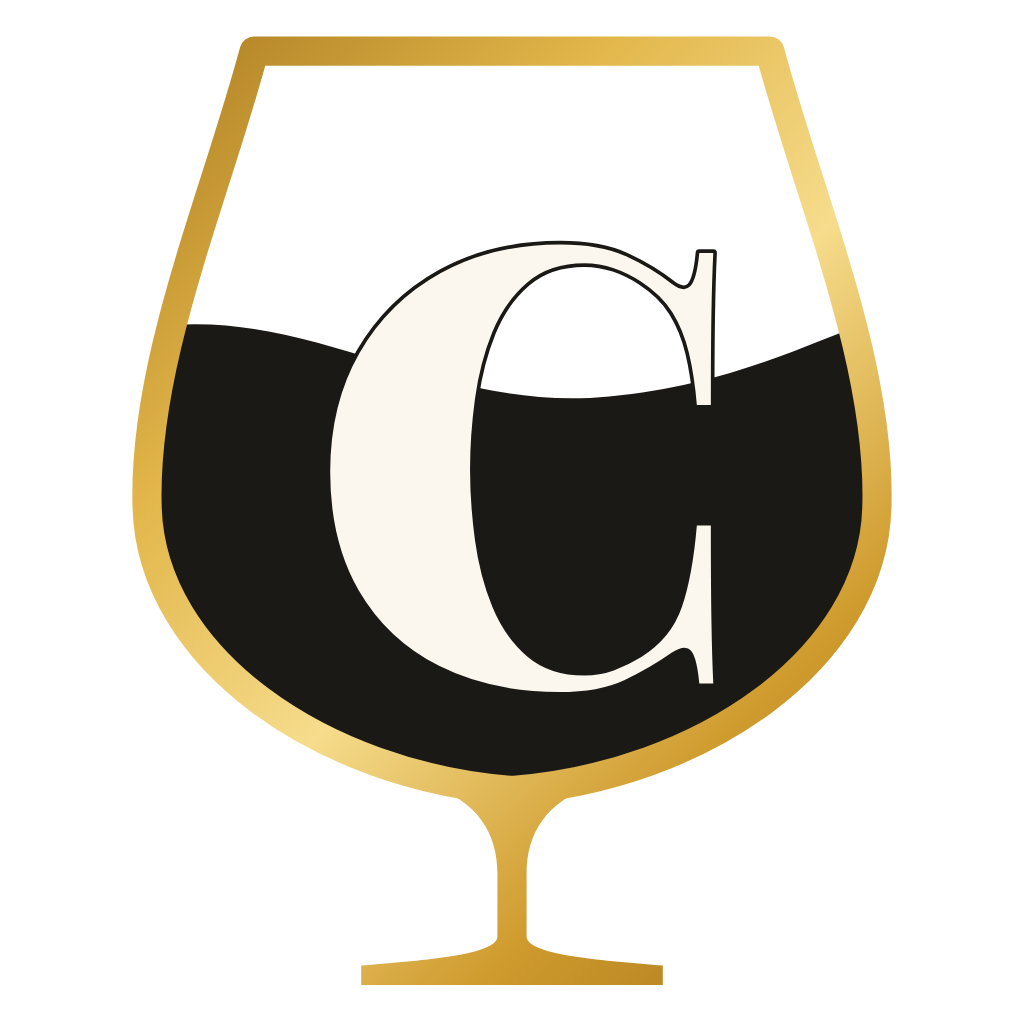
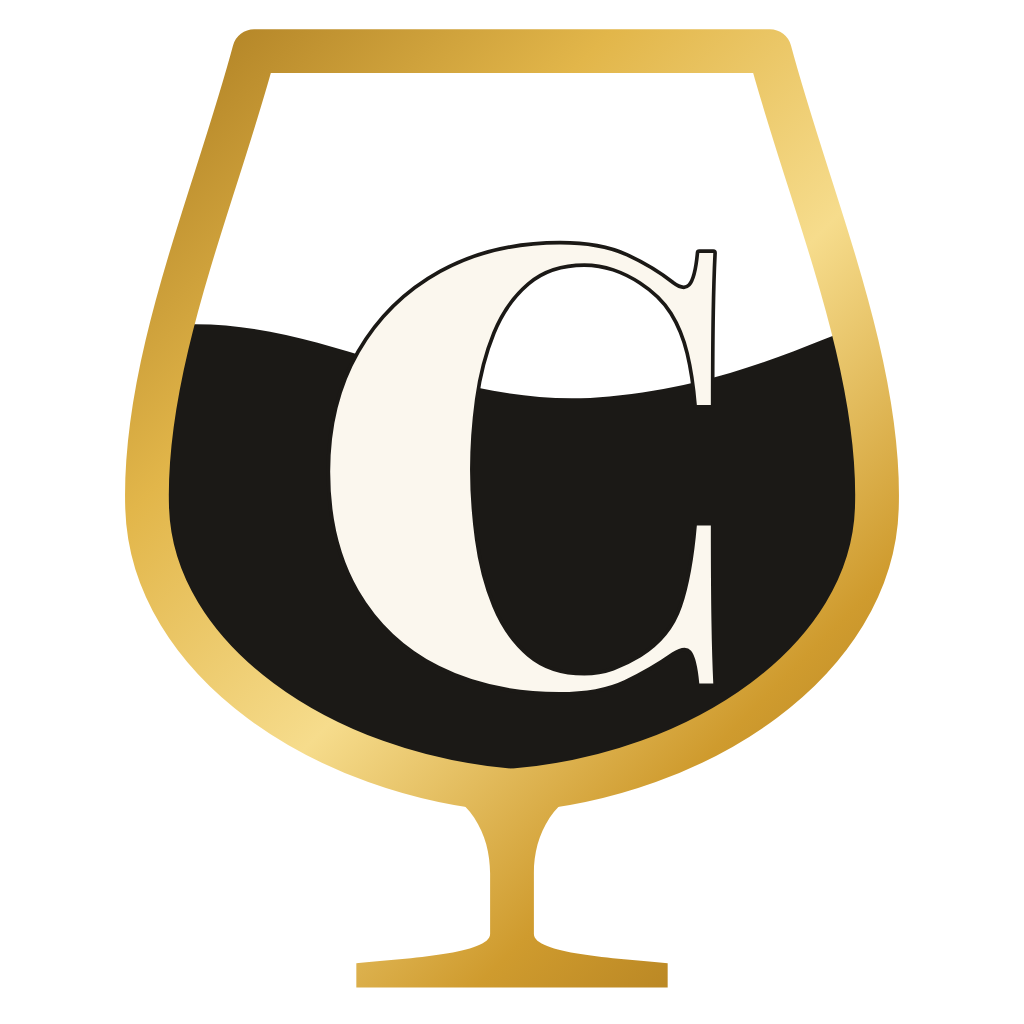
Thicker glass on the app mark; handover readiness: uncounted drinks say so
The standalone glass (the app icon, the favicon and every mark in the app)
has a heavier bowl outline and stem, so it holds at icon sizes; the 1024 PNGs
the home-screen icons are cut from are rendered again from the SVG.

A stock-kept item with nothing ever counted or received now carries its own
reason, not_counted: the Floor and Counter tiles say Not counted rather than
Finished, the Stock page reads Not counted, not on sale, and Health lists them
as a thing to look at. The first-night E2E puts stock on the shelf (trial
stock) before the first round, as the real handover must; all three E2E runs
(first night, round trip, handoff) pass.

Claude-Session: https://claude.ai/code/session_018aG18aFk9ruLPC4UKvSbcw

diff --git a/modules/health/service.ts b/modules/health/service.ts
@@ -176,7 +176,7 @@ function stock(): HealthCheck[] {
   return [
     { id: 'below-zero', label: 'Stock below zero', status: below > 0 ? 'fail' : 'ok', value: String(below), detail: below > 0 ? 'Brought to zero in the background within a minute, then flagged Count needed.' : 'No balance anywhere reads below zero.', href: '/console/inventory/stock' },
     { id: 'recount', label: 'Count needed', status: recount.length > 0 ? 'warn' : 'ok', value: String(recount.length), detail: recount.length > 0 ? 'Sold beyond the record since their last count: count them.' : 'Every counted item matches what was sold.', href: '/console/inventory/stock' },
-    { id: 'uncounted', label: 'Not counted yet', status: uncounted.length > 0 ? 'info' : 'ok', value: `${uncounted.length} of ${stockVariants.length}`, detail: uncounted.length > 0 ? 'On sale, and not stopped when they run out until a first count or delivery.' : 'Every stock-kept item has been counted or received.', href: '/console/inventory/counts/new' },
+    { id: 'uncounted', label: 'Not counted yet', status: uncounted.length > 0 ? 'warn' : 'ok', value: `${uncounted.length} of ${stockVariants.length}`, detail: uncounted.length > 0 ? 'Not on sale: none is on the shelf until a count or a delivery records it. Count them, or set trial stock.' : 'Every stock-kept item has been counted or received.', href: '/console/inventory/counts/new' },
     { id: 'no-cost', label: 'Unit cost not set', status: noCost.length > 0 ? 'warn' : 'ok', value: `${noCost.length} of ${stockVariants.length}`, detail: noCost.length > 0 ? 'Profit and stock value leave these out until a delivery or the product form sets a cost.' : 'Every stock-kept item has a cost.', href: '/console/catalogue/products' },
     { id: 'unpriced', label: 'Not priced', status: unpriced.length > 0 ? 'fail' : 'ok', value: String(unpriced.length), detail: unpriced.length > 0 ? `${unpriced.slice(0, 3).map((v) => v.name).join(', ')}${unpriced.length > 3 ? ' and more' : ''} cannot be sold.` : 'Everything on the menu has a price.', href: '/console/pricing/lists' },
     { id: 'photos', label: 'Without a photo', status: noPhoto.length > 0 ? 'info' : 'ok', value: String(noPhoto.length), detail: noPhoto.length > 0 ? 'They show their initial on the floor.' : 'Every product has a photo.', href: '/console/catalogue/products' },

diff --git a/modules/availability/service.ts b/modules/availability/service.ts
@@ -40,6 +40,7 @@ export function evaluate(variantId: string): AvailabilityResult & { threshold: n
   let threshold = outletDefault;
   let tracked = category.trackStock;
   let hasActiveHold = held.has(variantId);
+  let uncounted = false;
 
   if (recipe) {
     for (const c of recipe.components) if (held.has(c.componentVariantId)) hasActiveHold = true;
@@ -52,7 +53,11 @@ export function evaluate(variantId: string): AvailabilityResult & { threshold: n
         // A part kept in stock stops the drink when it runs out, and so does one never counted or
         // received: stock that was never recorded is not there to pour. Parts not kept in stock do not.
         if (!isKept(c.componentVariantId)) return UNTRACKED_QTY;
-        return inventory.stockRecorded(c.componentVariantId) ? servesFromStock(inventory.onHand(c.componentVariantId), c.qty) : 0;
+        if (!inventory.stockRecorded(c.componentVariantId)) {
+          uncounted = true;
+          return 0;
+        }
+        return servesFromStock(inventory.onHand(c.componentVariantId), c.qty);
       }),
     );
     threshold = Math.max(LAST_FEW_SERVES + 1, outletDefault);
@@ -61,7 +66,10 @@ export function evaluate(variantId: string): AvailabilityResult & { threshold: n
     // Stock never received or counted is not on the shelf: it cannot be sold until a delivery or a
     // count records it. The Console lists it as not counted yet.
     if (stock && held.has(stock.stockVariantId)) hasActiveHold = true;
-    if (stock && !inventory.stockRecorded(stock.stockVariantId)) qty = 0;
+    if (stock && !inventory.stockRecorded(stock.stockVariantId)) {
+      qty = 0;
+      uncounted = true;
+    }
     else if (stock) {
       const units = inventory.onHand(stock.stockVariantId);
       qty = variant.kind === 'serve' ? servesFromStock(units, stock.factor) : Math.floor(units + 1e-9);
@@ -78,6 +86,8 @@ export function evaluate(variantId: string): AvailabilityResult & { threshold: n
     qtyAvailable: qty,
     threshold,
   });
+  // Finished because nothing was ever recorded, not because it ran out: say so, so the bar counts it.
+  if (uncounted && result.state === 'finished' && result.reason === 'stock') return { ...result, reason: 'not_counted', threshold };
   return { ...result, threshold };
 }
 

diff --git a/packages/ui/src/components/floor/product-tile.tsx b/packages/ui/src/components/floor/product-tile.tsx
@@ -74,6 +74,7 @@ export const ProductTile = memo(function ProductTile({ variantId, name, price, r
   const ref = useRef<HTMLButtonElement>(null);
   const finished = state === 'finished';
   const held = finished && reason === 'hold';
+  const uncounted = finished && reason === 'not_counted';
   const low = state === 'low' || state === 'last_few';
   const count = Math.max(0, Math.floor(qtyAvailable));
 
@@ -86,7 +87,7 @@ export const ProductTile = memo(function ProductTile({ variantId, name, price, r
     onLongPress: () => onLongPress(variantId),
   });
 
-  const stateWords = finished ? (held ? ', on hold' : ', finished') : low ? `, ${count} left` : '';
+  const stateWords = finished ? (held ? ', on hold' : uncounted ? ', not counted yet' : ', finished') : low ? `, ${count} left` : '';
   const Glyph = GLYPH[glyph];
   const tint = CATEGORY_COLOR[category] ?? 'var(--color-ink-subtle)';
 
@@ -117,7 +118,7 @@ export const ProductTile = memo(function ProductTile({ variantId, name, price, r
           }
         />
         {finished ? (
-          <span className="py-2 text-caps caps text-ink-muted">{held ? 'On hold' : 'Finished'}</span>
+          <span className="py-2 text-caps caps text-ink-muted">{held ? 'On hold' : uncounted ? 'Not counted' : 'Finished'}</span>
         ) : low ? (
           <span className={cx('rounded-sm px-6 py-2 font-mono tabular text-num-sm', state === 'last_few' ? 'bg-low-wash text-low' : 'text-low')}>{count} left</span>
         ) : null}

diff --git a/app/(console)/console/(shell)/inventory/stock/stock-table.tsx b/app/(console)/console/(shell)/inventory/stock/stock-table.tsx
@@ -24,11 +24,11 @@ import type { StockRow } from './page';
 
 function stateChip(row: StockRow) {
   if (row.reason === 'hold') return <StatusChip status="on_hold" />;
+  // Never received or counted: not on sale until a delivery or a count records some.
+  if (row.reason === 'not_counted' || !row.counted) return <ToneChip tone="low">Not counted, not on sale</ToneChip>;
   if (row.state === 'finished') return <StatusChip status="finished" />;
   if (row.state === 'last_few') return <StatusChip status="last_few" />;
   if (row.state === 'low') return <StatusChip status="low" />;
-  // Never received or counted: on sale, and waiting for its first delivery, count or opening figure.
-  if (!row.counted) return <ToneChip tone="info">Not counted yet</ToneChip>;
   // More went out than the record held: the shelf needs counting to know what is really there.
   if (row.needsCount || row.onHand < 0) return <ToneChip tone="low">Count needed</ToneChip>;
   return <span className="sr-only">Available</span>;

diff --git a/modules/manage.test.ts b/modules/manage.test.ts
@@ -107,7 +107,7 @@ describe('the menu', () => {
     // Its stock was never received or counted, so none is on the shelf: it cannot be sold until a
     // delivery or a count records some, and the Console lists it as not counted.
     expect(inventory.stockRecorded(variant.id)).toBe(false);
-    expect(availability.evaluate(variant.id)).toMatchObject({ state: 'finished', reason: 'stock', qtyAvailable: 0 });
+    expect(availability.evaluate(variant.id)).toMatchObject({ state: 'finished', reason: 'not_counted', qtyAvailable: 0 });
     // The same request again adds nothing.
     const again = catalogueManage.createProduct(
       { categoryId: spirits.id, name: 'Test Gin', brand: 'Test', sku: 'SPR-TST-750', barcode: null, containerVolumeMl: 750, abv: 40, defaultSupplierId: null, imageKey: null, firstVariant: { name: '750ml', kind: 'sealed', serveVolumeMl: null, depletionFactor: 1 }, basePriceCents: cents(250_000), requestId: 'test-gin-once', actor },

diff --git a/lib/pos/sync.ts b/lib/pos/sync.ts
@@ -265,7 +265,7 @@ async function applyPull(body: PullBody) {
         const before = previous.get(entry.productVariantId);
         if (before && before !== 'finished' && entry.state === 'finished') {
           const variant = await db.variants.get(entry.productVariantId);
-          if (variant) changed.push(`${variant.name} is ${entry.reason === 'hold' ? 'on hold' : 'finished'}.`);
+          if (variant) changed.push(`${variant.name} is ${entry.reason === 'hold' ? 'on hold' : entry.reason === 'not_counted' ? 'not counted yet' : 'finished'}.`);
         }
       }
       await db.availability.bulkPut(body.availability);

diff --git a/packages/shared/src/domain/index.ts b/packages/shared/src/domain/index.ts
@@ -285,7 +285,8 @@ export interface PriceRule {
 /* ------------------------------------------------ inventory and availability */
 
 export type AvailabilityState = 'available' | 'low' | 'last_few' | 'finished';
-export type AvailabilityReason = 'stock' | 'hold' | 'variant_status' | 'category_status';
+/** Why an item cannot be sold, or is running low. `not_counted`: kept in stock, but none was ever counted or received. */
+export type AvailabilityReason = 'stock' | 'not_counted' | 'hold' | 'variant_status' | 'category_status';
 
 export interface AvailabilityEntry {
   productVariantId: Id;
